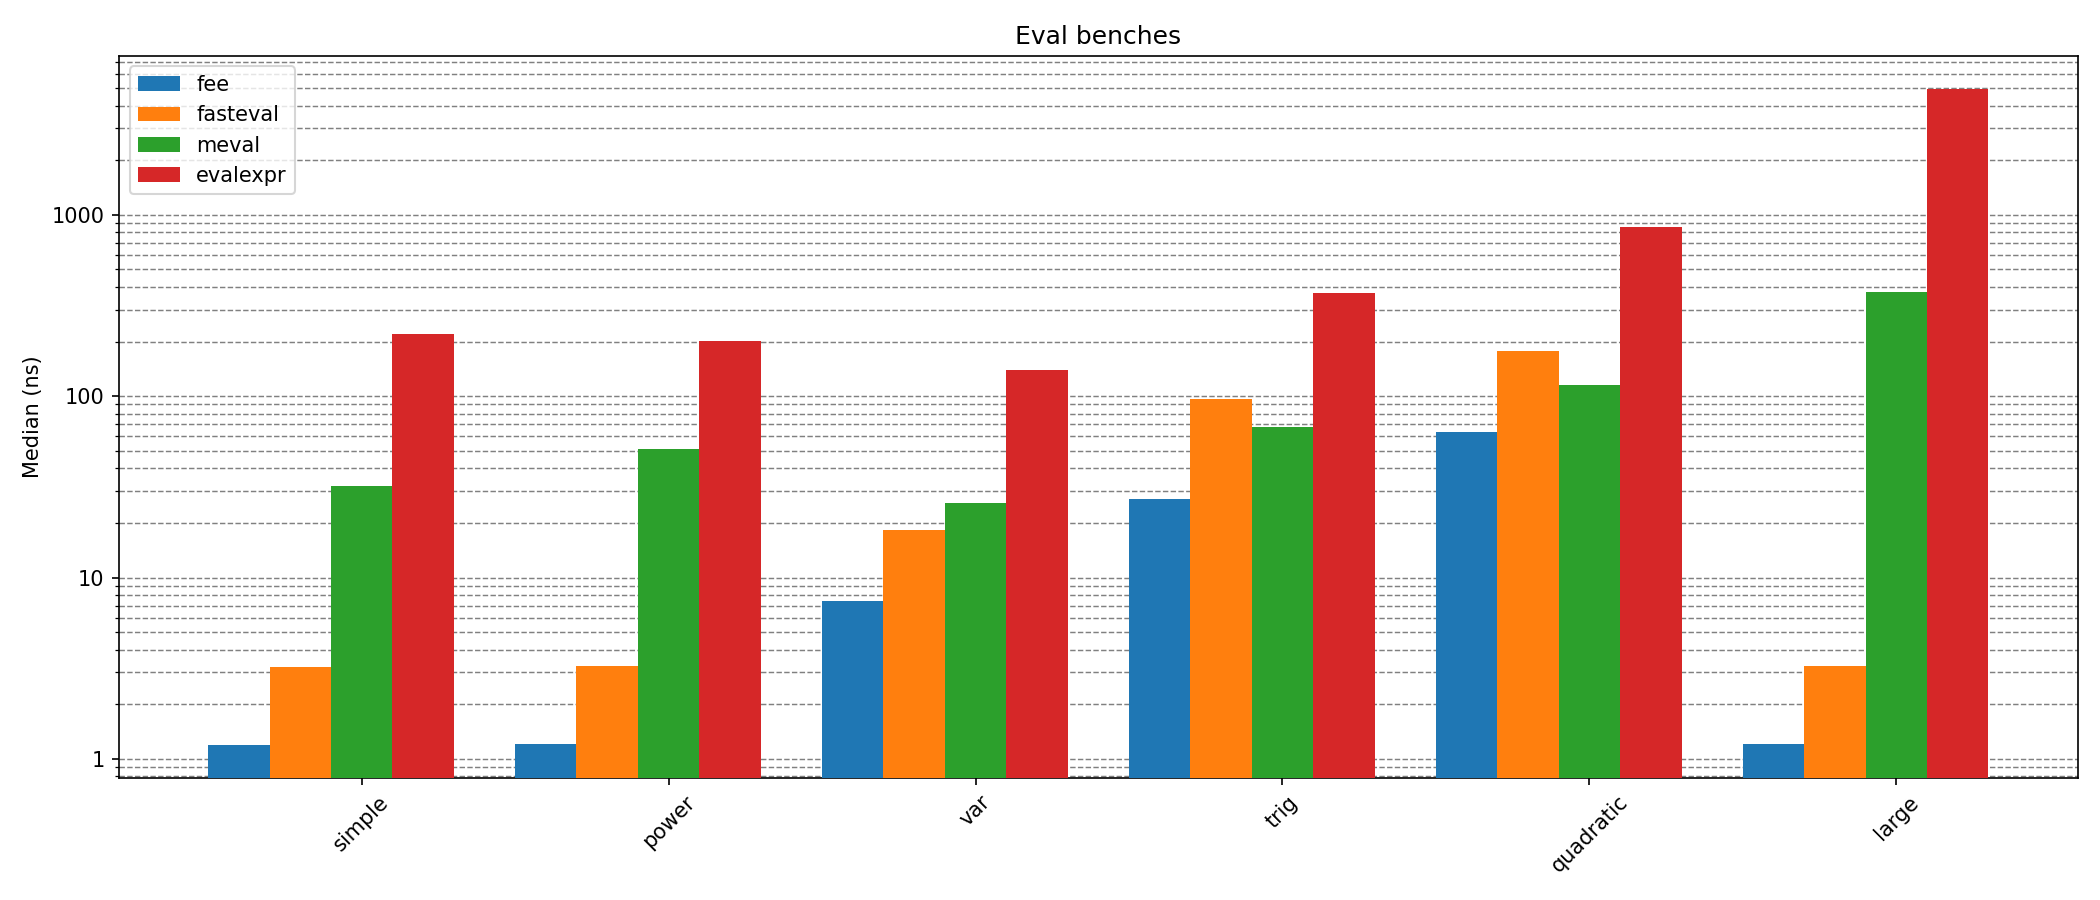
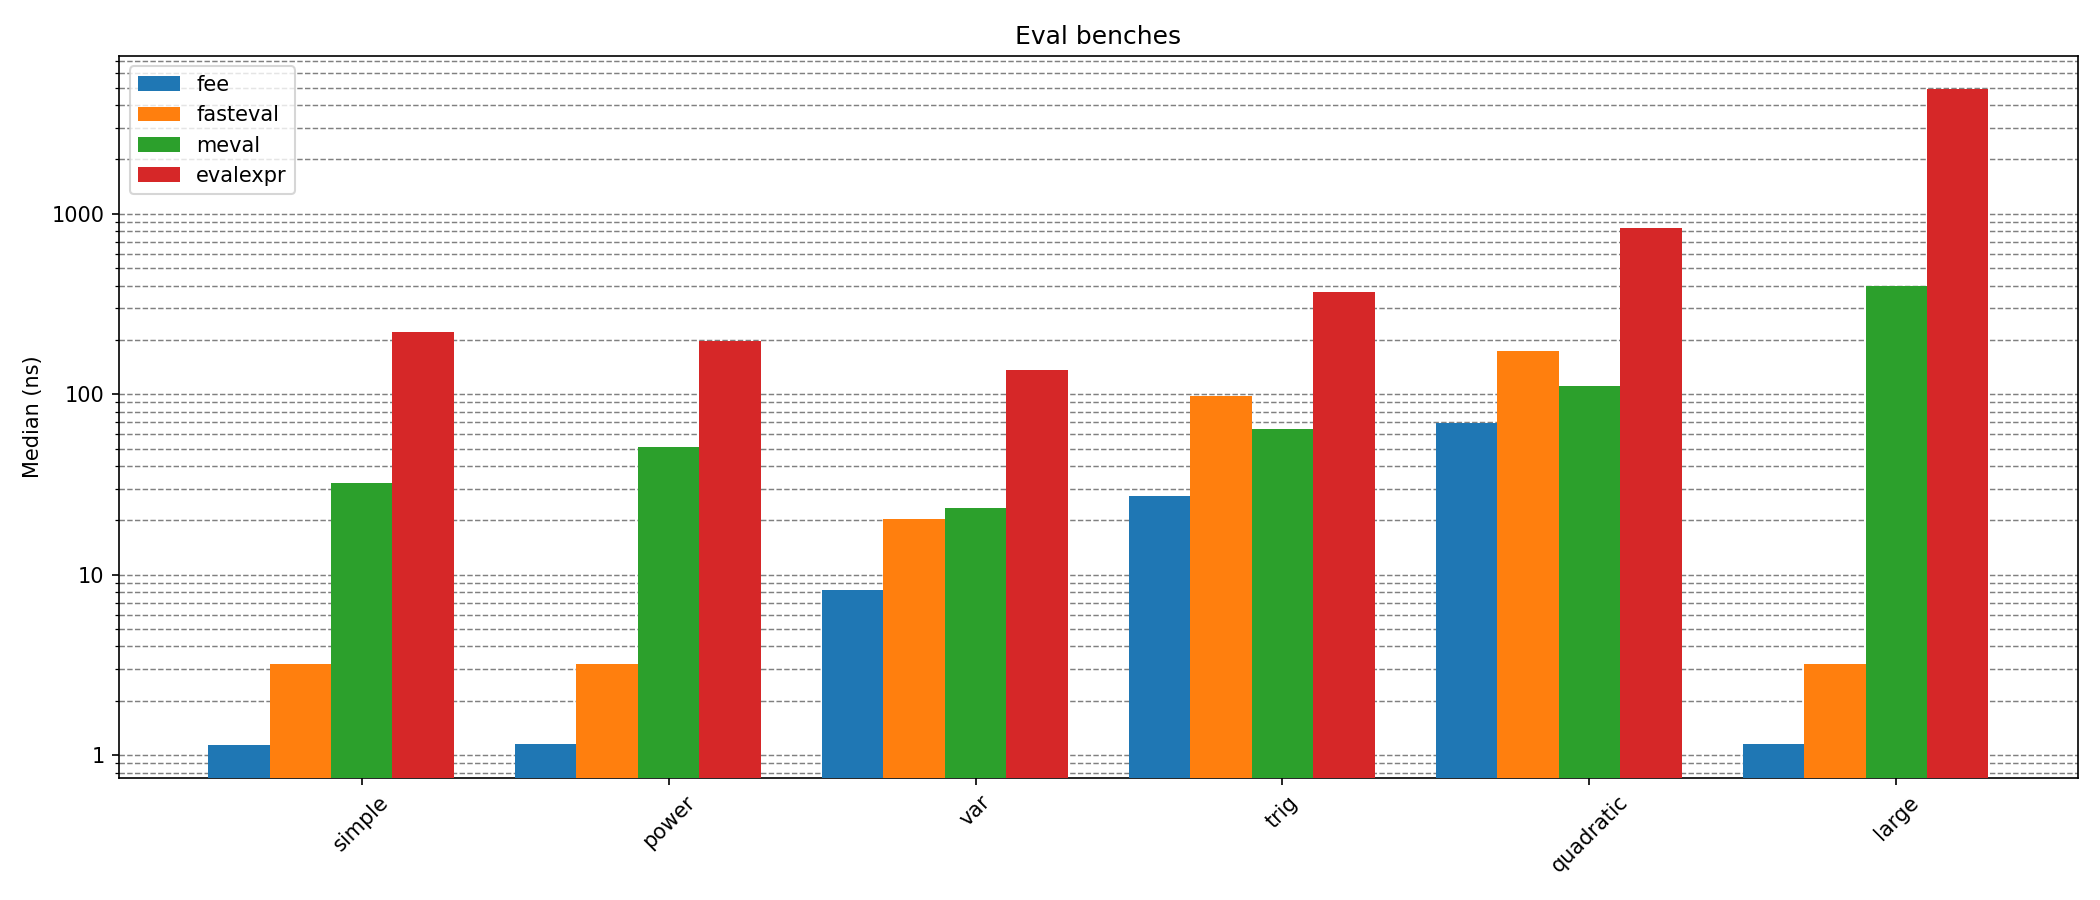
version 0.2.1 with eprformance improvements while parsing and the % operator

diff --git a/README.md b/README.md
@@ -1,4 +1,4 @@
-# Fast Expression Evaluators
+# Fast Expression Evaluator
 
 [![Crates.io](https://img.shields.io/crates/v/fee.svg)](https://crates.io/crates/fee)
 [![Docs.rs](https://docs.rs/fee/badge.svg)](https://docs.rs/fee)
@@ -20,7 +20,7 @@ First step is add the dependency to your Cargo.toml.
 
 ```toml
 [dependencies]
-fee = { version = "0.2.0" }
+fee = { version = "0.2.1" }
 ```
 
 The following code shows the default use case
@@ -116,8 +116,6 @@ the expression's variables and functions at compile time instead of eval time.
 
 ```Rust
 let context = Context::new(var_resolver, fn_resolver).lock();
-let mut stack = Vec::with_capacity(10);
-
 let expr = Expr::compile("abs(2 / p1) + abs(-2)", &context).unwrap();
 ```
 

diff --git a/CHANGELOG.md b/CHANGELOG.md
@@ -4,7 +4,7 @@ All the changes in this project are documented in this file.
 
 The format follows [Keep a Changelog](https://keepachangelog.com/en/1.0.0/).
 
-## Unreleased
+## [0.2.1] - 2025-09-11
 
 ### Added
 - Added support for the modulus operator (`%`)
